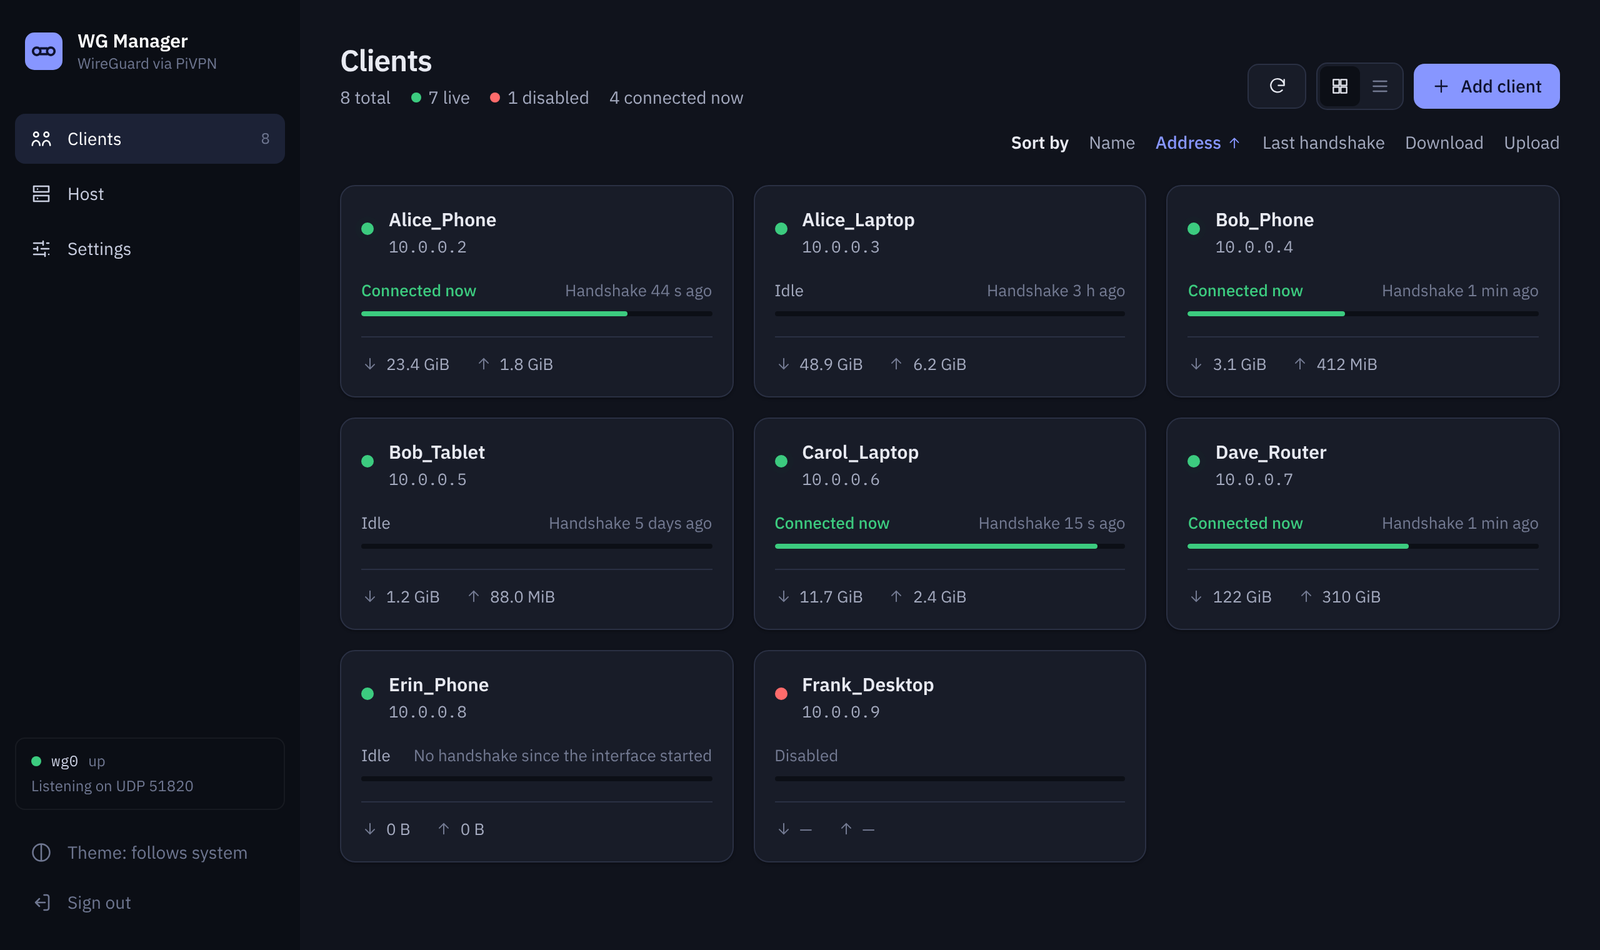
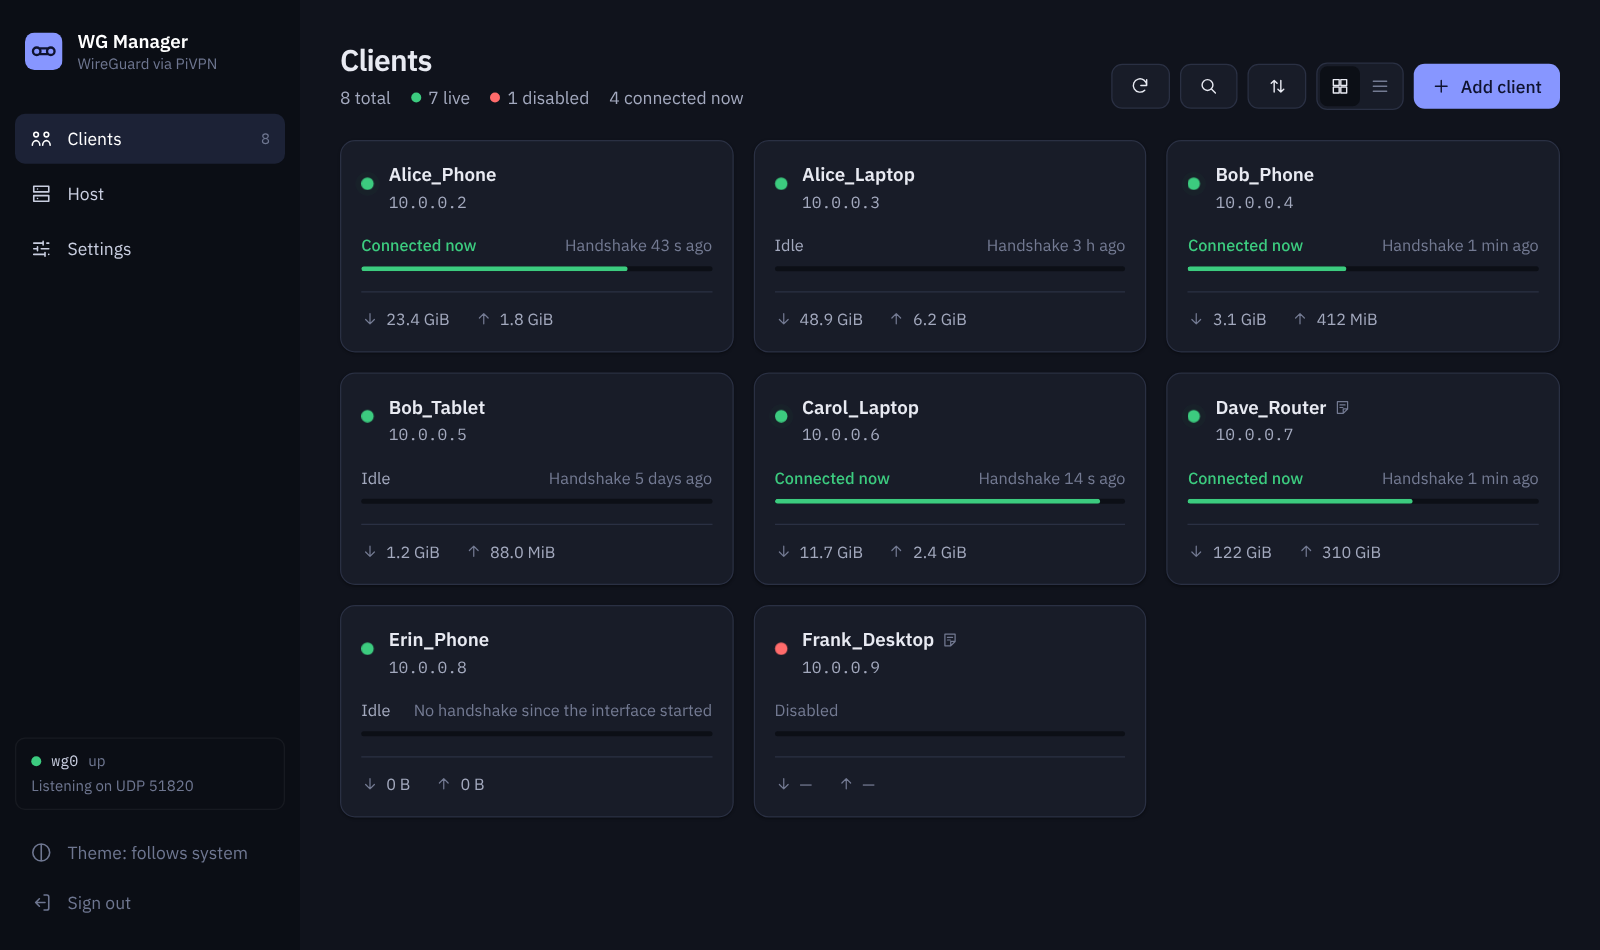
Release v0.2.0 with UI documentation updates
Document the 0.2.0 release, add light and dark screenshots for the Clients, Host, and Settings pages, and clarify UI test instructions.

diff --git a/web/src/views/Host.svelte b/web/src/views/Host.svelte
@@ -69,7 +69,7 @@
         <div class="flex justify-between gap-4 py-2"><dt class="text-ink-2">Listen port</dt><dd class="font-mono">{iface.listen_port ?? '—'} {#if iface.listen_port}<span class="font-sans text-ink-3">UDP</span>{/if}</dd></div>
         <div class="flex flex-col gap-1 py-2">
           <dt class="flex justify-between text-ink-2">Server public key {#if iface.public_key}<button class="text-xs text-accent hover:underline" onclick={() => copy(iface.public_key)}>Copy</button>{/if}</dt>
-          <dd class="font-mono text-[12.5px] break-all text-ink-2">{iface.public_key ?? 'Not available while the interface is down'}</dd>
+          <dd class="font-mono text-[12.5px] break-all {iface.public_key ? 'select-all' : 'text-ink-2'}">{iface.public_key ?? 'Not available while the interface is down'}</dd>
         </div>
         <div class="flex justify-between gap-4 py-2"><dt class="text-ink-2">Clients</dt><dd class="tabular">{app.list.clients.length}</dd></div>
       </dl>

diff --git a/docs/.vitepress/theme/custom.css b/docs/.vitepress/theme/custom.css
@@ -33,3 +33,17 @@
     align-self: center;
   }
 }
+
+/* Screenshots in guide pages: one image per theme, framed like the home page's. */
+html.dark .only-light,
+html:not(.dark) .only-dark {
+  display: none;
+}
+.vp-doc img.screenshot {
+  width: 100%;
+  height: auto;
+  margin: 16px 0 24px;
+  border: 1px solid var(--vp-c-divider);
+  border-radius: 12px;
+  box-shadow: 0 8px 24px rgba(0, 0, 0, 0.1);
+}

diff --git a/docs/development/index.md b/docs/development/index.md
@@ -34,6 +34,7 @@ In `web/`, after `npm install`:
 - `npm run dev:real`: the UI dev server against a real backend on port 7501 (see [Backend](#backend)). Requests to `/api` are passed through to it.
 - `npm run build`: the real app into `dist/`. The mock is not included.
 - `npm run build:demo`: the public demo site into `dist-demo/`: the mock built in, and each visitor's changes kept only in their own browser tab.
+- `npm test`: unit tests for the UI's logic that runs without a browser (for now, the client search filter).
 
 The [live demo](https://wgmdemo.pages.dev) is built by Cloudflare Pages straight from this repository: root directory `web`, build command `npm run build:demo`, output `dist-demo`, Node 26 (`NODE_VERSION`). Every push to `master` rebuilds it.
 
@@ -97,6 +98,10 @@ Run them under different umasks (002, 022, 077) when touching file modes.
 - `test_helper.py` tests `wgmanager-helper`: the request parser against hostile input, the backend steps, and reading state from files in PiVPN's real layout. `fakes/pivpn` and `fakes/wg` are test doubles. `fakes/pivpn` reproduces real PiVPN quirks on purpose (exit 0 on "does not exist", reload failures that still exit 0), so the helper's checks after each change are exercised. The fake `wg` dump contains secret sentinel strings, and the tests assert they never appear in output or logs.
 - `test_host.py` tests `wgmanager-host doctor` against a throwaway folder tree. Every external command (`sshd`, `sudo`, `visudo`, `id`, `getent`) is answered from a table, so each way a real server can be misconfigured is reproducible. It also asserts that `doctor` changes nothing.
 - `test_install.py` tests `install` and `uninstall` against a stateful fake system (accounts, files, sshd, sudo). It checks what ends up on disk, that sshd is changed last, that a failure at any step restores the previous state, and that running twice changes nothing.
+
+### Web UI tests
+
+In `web/`, `npm test` runs the unit tests in `test/` with Node's built-in test runner. No browser is needed.
 
 ### Backend tests
 

diff --git a/docs/guide/web-interface.md b/docs/guide/web-interface.md
@@ -8,6 +8,9 @@ The sidebar (a bar along the bottom on phones) has three pages: **Clients**, **H
 
 ## Clients
 
+![The Clients page in card view (sample data)](/screenshot-light.png){.screenshot .only-light}
+![The Clients page in card view (sample data)](/screenshot-dark.png){.screenshot .only-dark}
+
 This page lists your VPN clients as cards or as a list; switch between them with the buttons at the top. It refreshes itself every 15 seconds while the tab is visible.
 
 - **Add a client:** click **Add client**, enter a name and confirm. The new client's QR code and config download appear straight away. Scan the QR code with the WireGuard app on a phone, or download the config file for a computer.
@@ -35,9 +38,15 @@ If the WireGuard interface is down, **Add client** and **Enable** are switched o
 
 ## Host
 
+![The Host page (sample data)](/screenshot-host-light.png){.screenshot .only-light}
+![The Host page (sample data)](/screenshot-host-dark.png){.screenshot .only-dark}
+
 Shows the state of the server side: the WireGuard interface (name, port, public key, number of clients), the helper (version, protocol, backend and the address it was reached at) and the PiVPN scripts it runs, with a SHA-256 hash of each. Warnings from the server appear here too.
 
 ## Settings
+
+![The Settings page (sample data)](/screenshot-settings-light.png){.screenshot .only-light}
+![The Settings page (sample data)](/screenshot-settings-dark.png){.screenshot .only-dark}
 
 - **Appearance:** follow your device, light or dark.
 - **Admin password:** change it by entering the current one and a new one. This signs out every other browser.

diff --git a/CHANGELOG.md b/CHANGELOG.md
@@ -11,6 +11,10 @@ the helper too.
 
 ## [Unreleased]
 
+## [0.2.0] - 2026-11-06
+
+Ships helper 0.1.4.
+
 ### Added
 
 - A **Helper update available** notice at the top of every page when the helper
@@ -23,6 +27,8 @@ the helper too.
 - **Search** on the Clients page: a magnifying-glass button opens a search box
   that filters clients by name, address or note. The filter stays on (shown by
   a dot on the button) until you clear it, reload or sign out.
+- Screenshots of the Clients, Host and Settings pages on the documentation
+  site's Web interface page, in light and dark.
 
 ### Changed
 
@@ -36,7 +42,8 @@ the helper too.
 
 ### Fixed
 
-- The client panel's public key is shown in the same colour as the other details.
+- Public keys in the client panel and on the Host page are shown in the same
+  colour as the other details.
 
 ## [0.1.3] - 2026-11-04
 
@@ -180,7 +187,8 @@ Verified from source, not run:
   one line per entry, and sshd matches each entry on its own with `*` and `?`
   wildcards only (OpenSSH 10.0p2).
 
-[Unreleased]: https://github.com/elmedico27/wgmanager/compare/v0.1.3...HEAD
+[Unreleased]: https://github.com/elmedico27/wgmanager/compare/v0.2.0...HEAD
+[0.2.0]: https://github.com/elmedico27/wgmanager/compare/v0.1.3...v0.2.0
 [0.1.3]: https://github.com/elmedico27/wgmanager/compare/v0.1.2...v0.1.3
 [0.1.2]: https://github.com/elmedico27/wgmanager/compare/v0.1.1...v0.1.2
 [0.1.1]: https://github.com/elmedico27/wgmanager/compare/v0.1.0...v0.1.1
